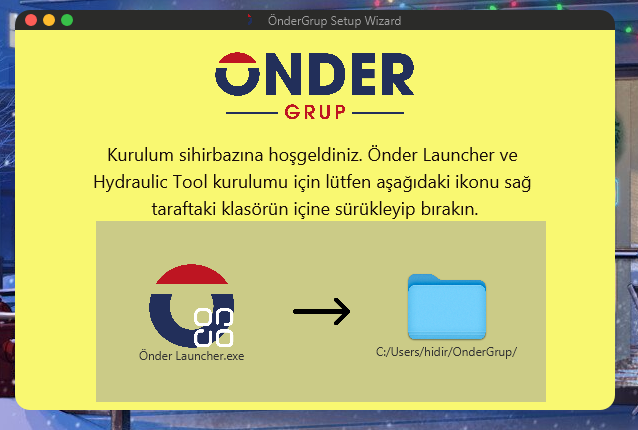
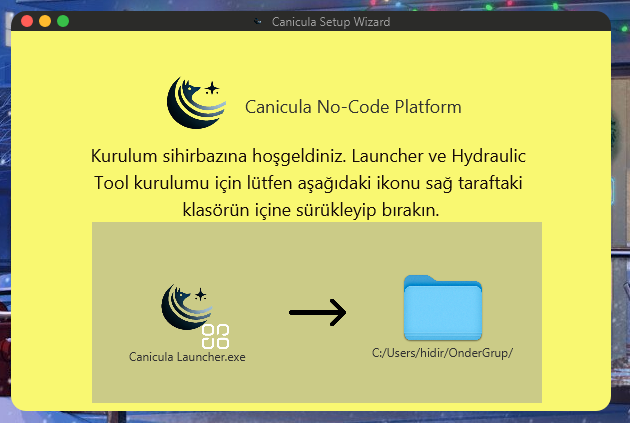
Readme Update

diff --git a/README.md b/README.md
@@ -3,13 +3,13 @@
 <br />
 <div align="center">
   <a href="https://github.com/hidirektor/ondergrup-setup-wizard">
-    <img src="readme/onderGrupMain.png" alt="Logo" width="320" height="80">
+    <img src="readme/logo-sade.png" alt="Logo" width="320" height="80">
   </a>
 
-<h3 align="center">Önder Setup Wizard</h3>
+<h3 align="center">Canicula Setup Wizard</h3>
 
   <p align="center">
-    Önder Setup Wizard is installer solution for desktop products that has been developed for Önder Grup.
+    Canicula Setup Wizard is installer solution for desktop products that has been developed for Canicula.
     <br />
     <br />
     <a href="mailto:hidirektor@gmail.com">Report Bug</a>
@@ -43,19 +43,18 @@
 <!-- ABOUT THE PROJECT -->
 ## About The Project
 
-[![ScreenShot][product-screenshot]](https://ondergrup.com)
-[![ScreenShot-2][product-screenshot2]](https://ondergrup.com)
-[![ScreenShot-3][product-screenshot3]](https://ondergrup.com)
-[![ScreenShot-4][product-screenshot4]](https://ondergrup.com)
-[![ScreenShot-5][product-screenshot5]](https://ondergrup.com)
+[![ScreenShot][product-screenshot]]
+[![ScreenShot-2][product-screenshot2]]
+[![ScreenShot-3][product-screenshot3]]
+[![ScreenShot-4][product-screenshot4]]
 
-Capabilities of Önder Setup Wizard:
-* Download & Install Önder Launcher
-* Download & Install Önder Grup Hydraulic Tool
-* Create desktop shortcuts for Önder Launcher
-* Create desktop shortcuts for Önder Grup Hydraulic Tool
-* Create auto start service for Önder Launcher
-* Create auto start service for Önder Grup Hydraulic Tool
+Capabilities of Canicula Setup Wizard:
+* Download & Install Canicula Launcher
+* Download & Install Canicula Hydraulic Tool Template
+* Create desktop shortcuts for Canicula Launcher
+* Create desktop shortcuts for Canicula Hydraulic Tool Template
+* Create auto start service for Canicula Launcher
+* Create auto start service for Canicula Hydraulic Tool Template
 
 ### Built With
 
@@ -73,7 +72,7 @@ The technologies used during development are as follows:
 ## Usage
 
 There's two steps to you must follow.
-- [x] Download the latest version of Önder Setup Wizard
+- [x] Download the latest version of Canicula Setup Wizard
 - [x] Then double click and finish the installation :))
 
 [Releases Page](https://github.com/hidirektor/ondergrup-setup-wizard/releases)
@@ -87,9 +86,9 @@ There's two steps to you must follow.
 
 - [x] Minimal UI
 - [x] Download & Install Management
-- [x] Önder Launcher & Önder Grup Hydraulic Tool Support
+- [x] Canicula Launcher & Canicula Hydraulic Tool Template Support
 - [x] Desktop Shortcuts
-- [x] Auto Start Service for both of them Önder Launcher & Önder Grup Hydraulic Tool
+- [x] Auto Start Service for both of them Canicula Launcher & Canicula Hydraulic Tool Template
 
 <p align="right">(<a href="#readme-top">back to top</a>)</p>
 
@@ -150,7 +149,6 @@ I've included a few of my favorites to kick things off!
 [product-screenshot2]: readme/ss-2.png
 [product-screenshot3]: readme/ss-3.png
 [product-screenshot4]: readme/ss-4.png
-[product-screenshot5]: readme/ss-5.png
 [Next.js]: https://img.shields.io/badge/java-000000?style=for-the-badge&logo=java&logoColor=white
 [Next-url]: https://www.java.com/tr/
 [React.js]: https://img.shields.io/badge/javafx-20232A?style=for-the-badge&logo=javafx&logoColor=61DAFB
